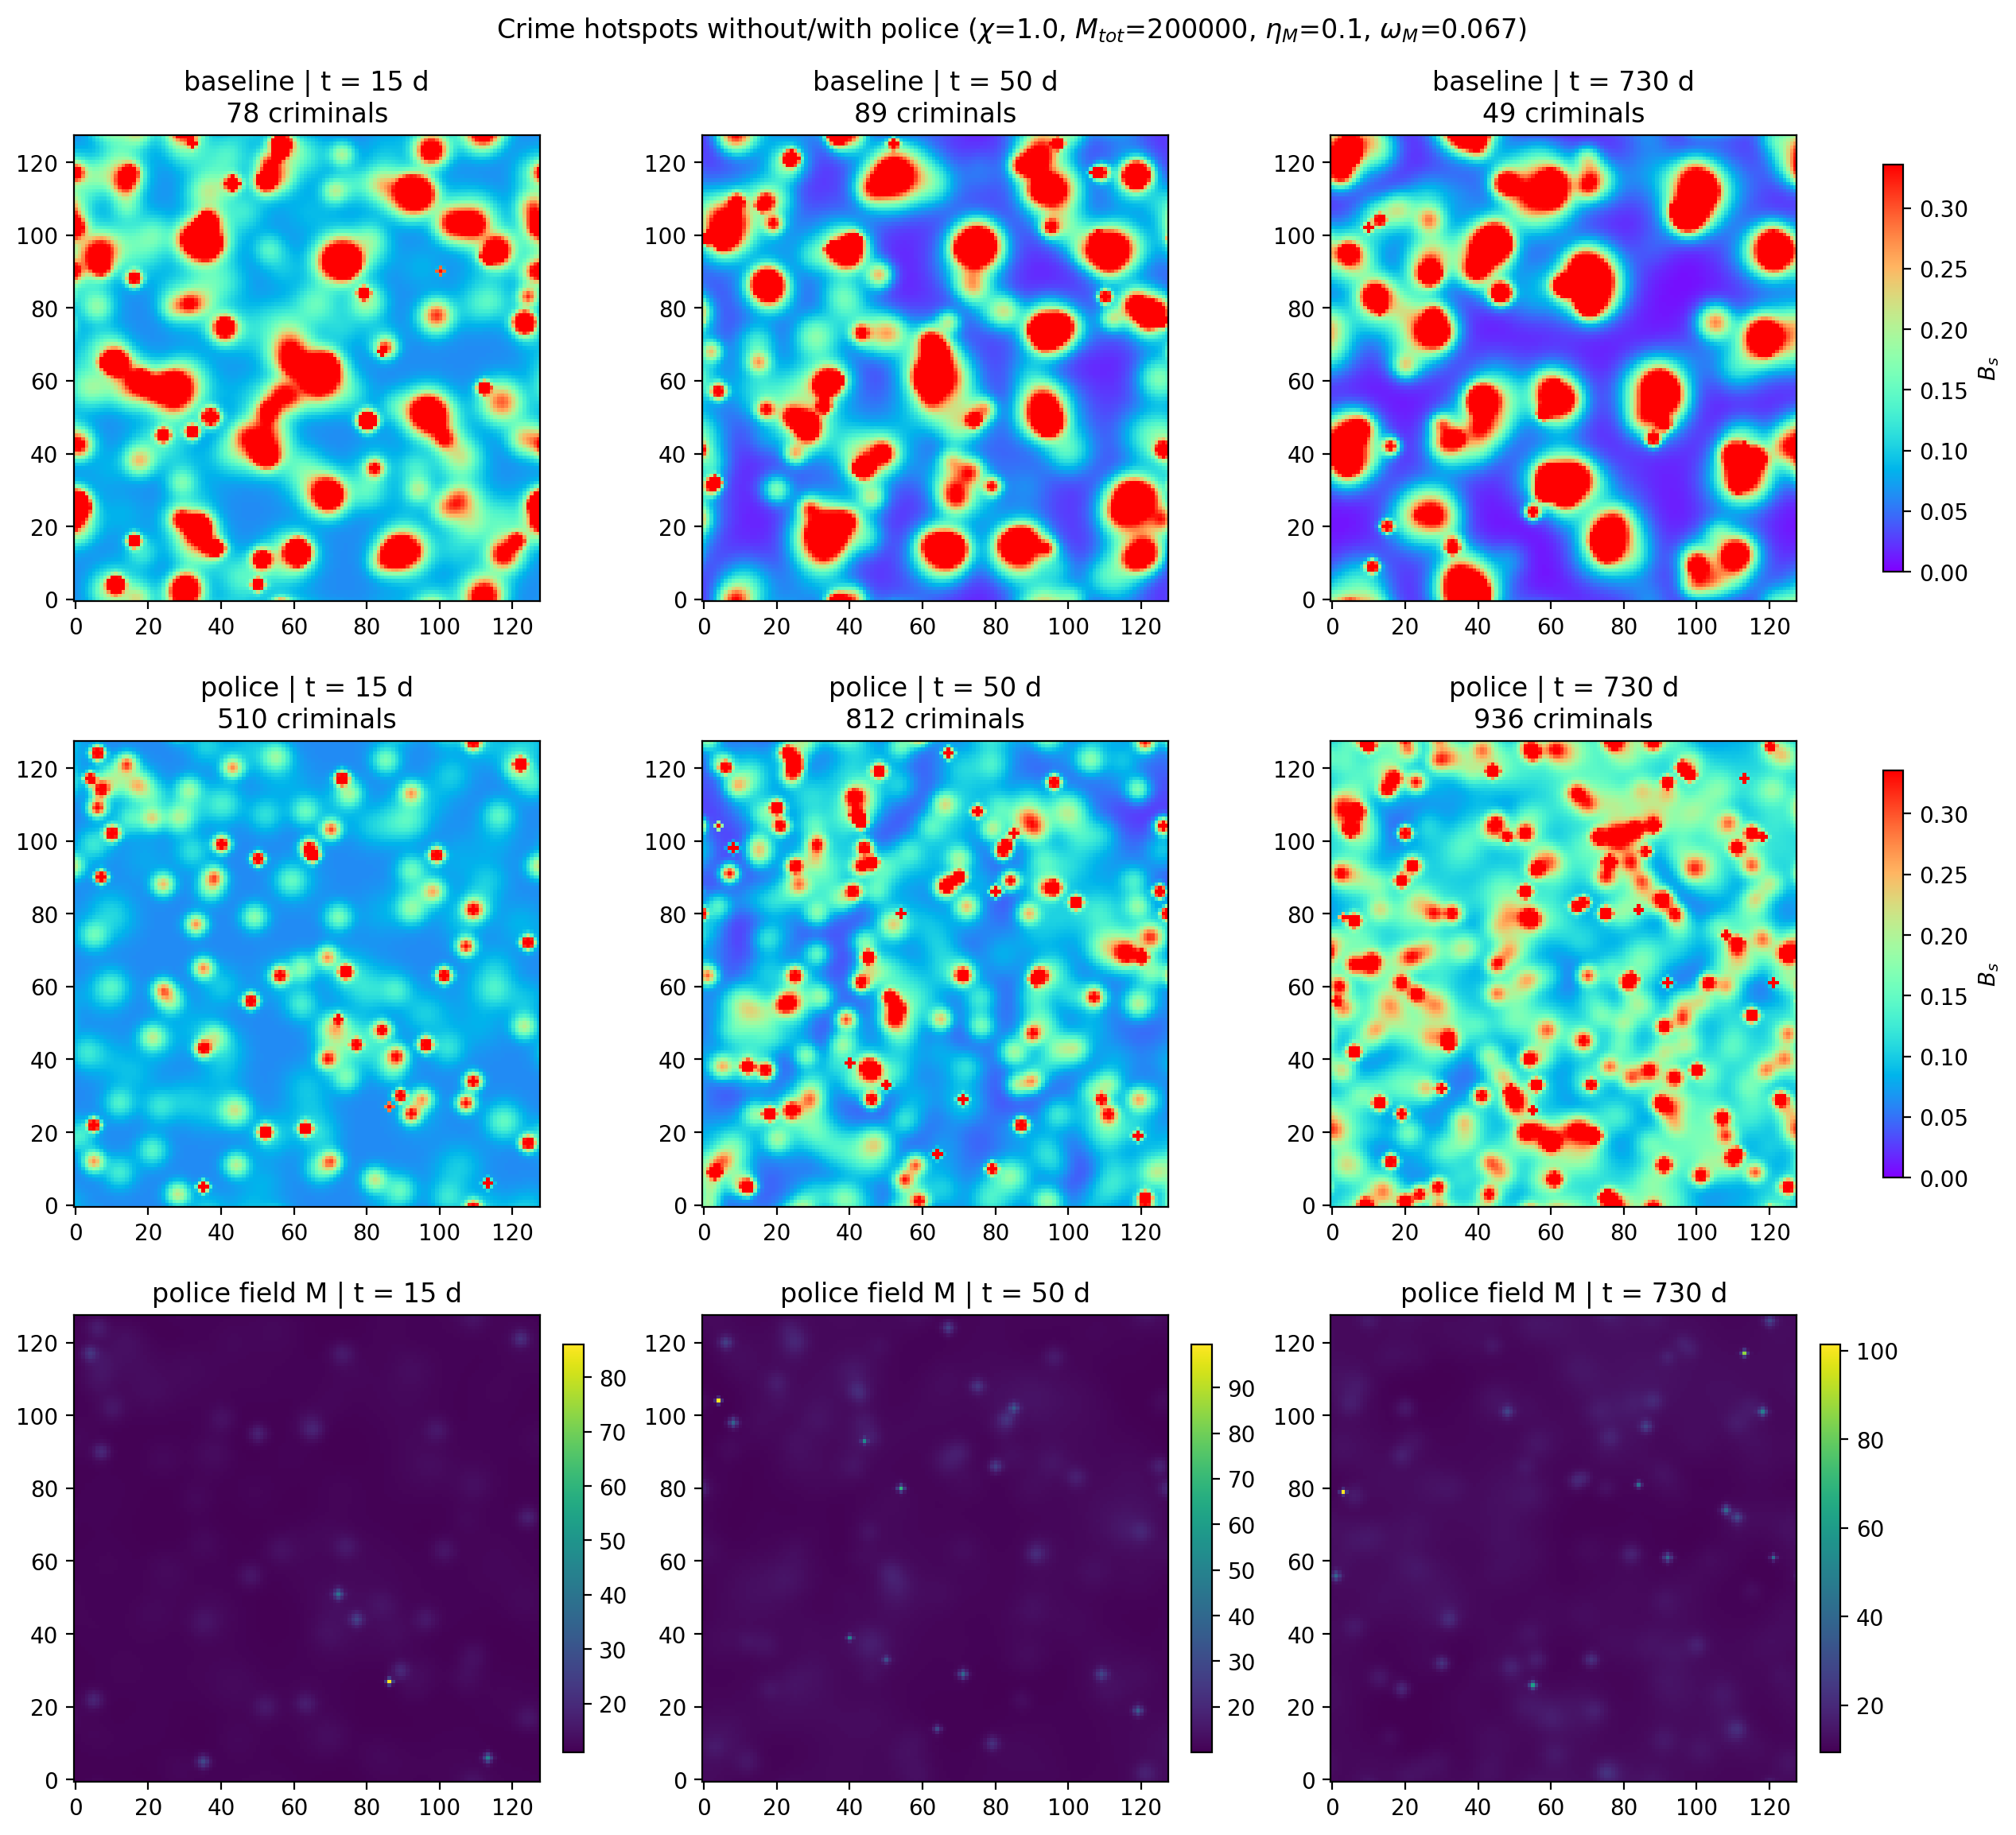
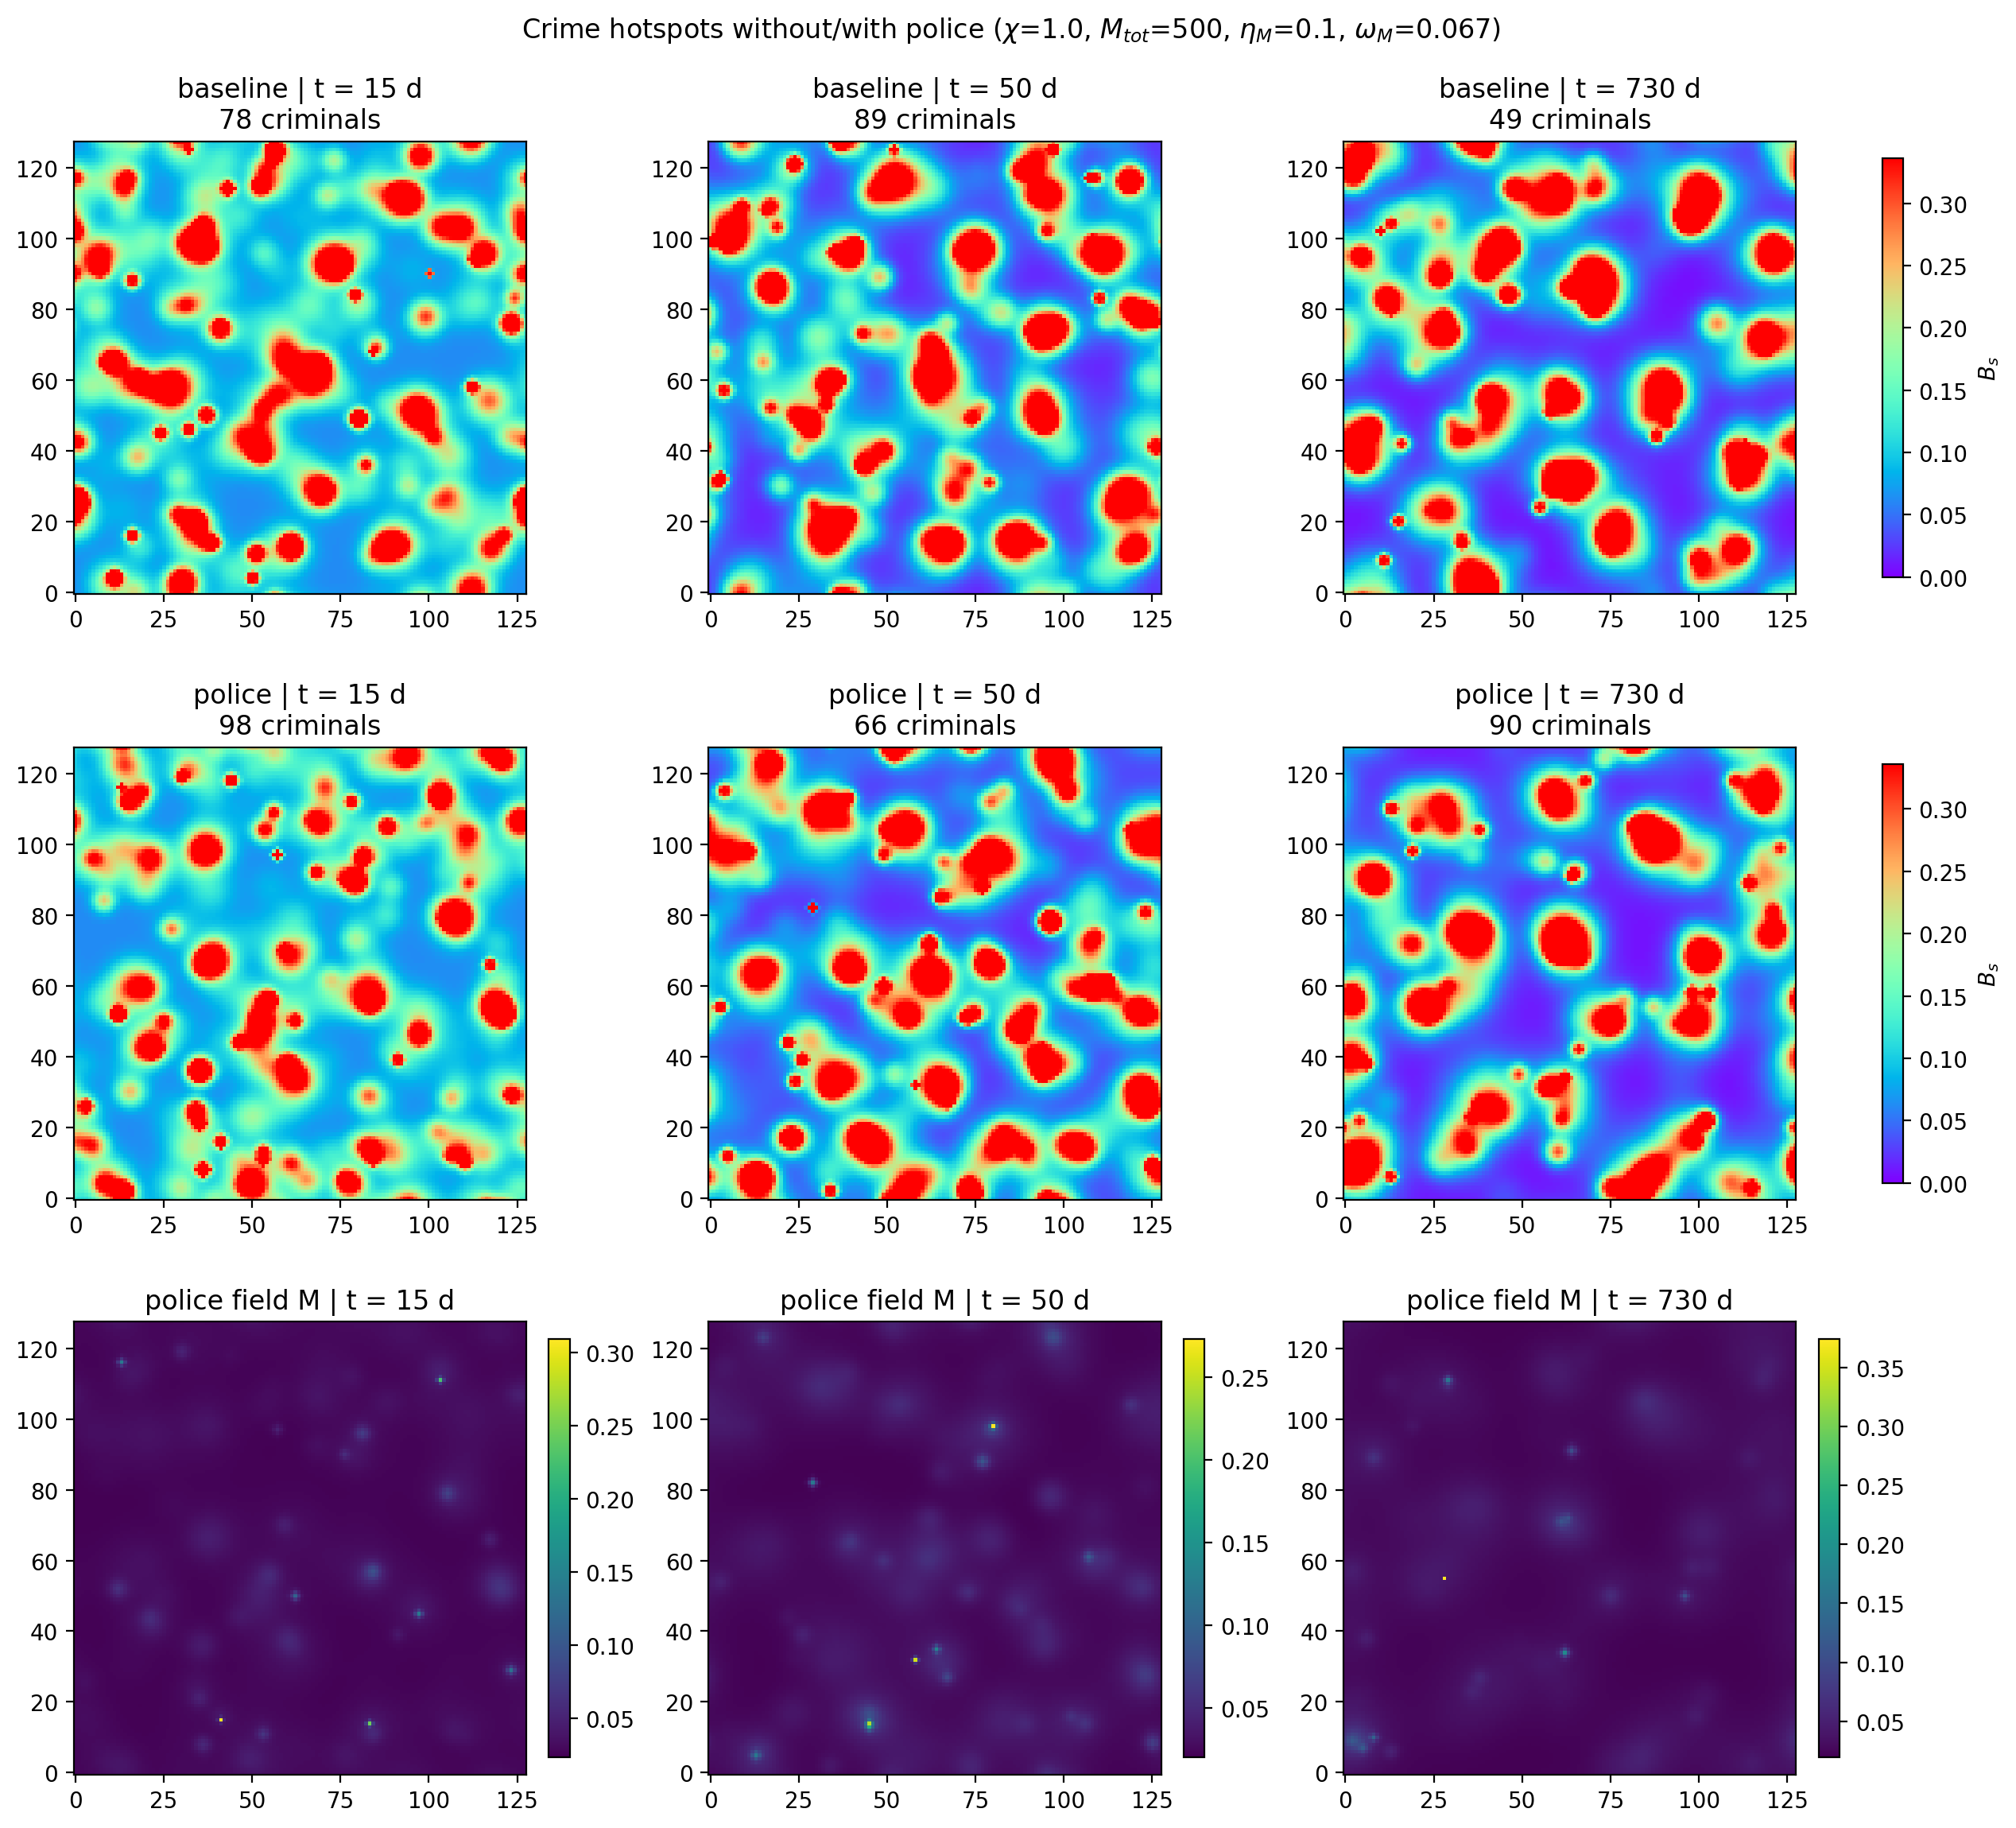
chi_sweep + .md

diff --git a/resumen_proyecto_policia.md b/resumen_proyecto_policia.md
@@ -1,0 +1,66 @@
+# Modelo de crimen con policía como campo conservado — resumen del proyecto
+
+*Resumen de la sesión de trabajo (junio 2026). Proyecto basado en la réplica de Short et al. (2008), Fig. 3(d), extendida con presencia policial.*
+
+## 1. Punto de partida
+
+Partimos del notebook que replica el modelo discreto de Short et al., *A Statistical Model of Criminal Behavior* (M3AS, 2008), en el régimen de hotspots dinámicos de la Fig. 3(d): red 128×128, δt=1/100, ω=1/15, A⁰=1/30, η=0.03, θ=5.6, Γ=0.002. El objetivo era añadir policía de forma sencilla, con espíritu Lotka-Volterra: B (atractividad dinámica) como presa y M (presencia policial) como predador.
+
+## 2. El modelo final
+
+Decisiones de diseño, en orden de discusión:
+
+1. **M es un campo escalar, no agentes.** Más barato (una operación vectorizada por paso), determinista dado E (la única estocasticidad queda en los criminales) y analizable (punto fijo homogéneo, estabilidad lineal). Análogo en espíritu al "cops on the dots" de Jones et al. (2010).
+2. **ΣM se conserva exactamente.** La policía no nace ni muere: se redistribuye. M_tot es el presupuesto policial.
+3. **M depende de B solo a través de E** (los crímenes observados). B es un campo latente que la policía no puede medir; E es lo que ve. Evitamos el término αBM del LV clásico.
+4. **B siente a M solo vía disuasión** ("perception modification" de Jones et al., Sec. 2.1.1), aplicada **solo a la componente dinámica**: el A⁰ intrínseco (riqueza, accesibilidad) no se puede patrullar. Implicación: la disuasión satura — la policía devuelve el crimen al nivel de fondo, nunca a cero.
+5. **La probabilidad de robo se mantiene como en Short** (p = 1−e^{−Ãδt}), no como en Jones (Ã/(1+Ã)): son casi idénticas numéricamente y así χ=0 reproduce la réplica base exactamente.
+
+Ecuaciones:
+
+$$\tilde A_s = A^0 + B_s\,e^{-\chi M_s}, \qquad p_s = 1-e^{-\tilde A_s \delta t}, \qquad q_{s\to s'} = \tilde A_{s'}/\textstyle\sum_r \tilde A_r$$
+
+$$B_s(t+\delta t) = \Big[(1-\eta)B_s + \tfrac{\eta}{z}\textstyle\sum_{s'}B_{s'}\Big](1-\omega\delta t) + \theta E_s \quad \text{(igual que Short)}$$
+
+$$M_s(t+\delta t) = (1-\omega_M\delta t)\Big[(1-\eta_M)M_s + \tfrac{\eta_M}{z}\textstyle\sum_{s'}M_{s'}\Big] + \omega_M\delta t\, M_{tot}\,\frac{E_s}{\sum_r E_r}$$
+
+Parámetros nuevos: χ (disuasión), η_M (patrulla difusiva), ω_M (tasa de redespliegue), M_tot. La conservación es exacta (difusión conserva masa en red periódica + combinación convexa). Nota de escalas: M y A tienen unidades distintas; solo importan los productos adimensionales χM (y κM si hay arrestos). El parámetro de control efectivo es χ·M_tot.
+
+**Verificación:** ΣM = M_tot en los 73.000 pasos; con χ=0 y la misma semilla, el campo B coincide bit a bit con la réplica de Fig. 3(d).
+
+## 3. Resultados
+
+**Run de referencia** (χ=1, M_tot=500, η_M=0.1, ω_M=1/15, 730 días): reducción modesta del crimen (252→229), hotspots persistentes. Diagnóstico: en los núcleos hace falta χM ≳ ln(B/A⁰) ≈ 3–5 y el χM real era ~0.04.
+
+**Asimetría viejos/nuevos hotspots.** La policía aborta hotspots nacientes pero no mata los consolidados: (i) la supresión es multiplicativa y los núcleos tienen B alto; (ii) la reasignación ∝E aterriza en la casilla del crimen justo durante la ventana crítica de consolidación (1/ω ≈ 15 días), bloqueando la victimización repetida de los nuevos; (iii) en un hotspot maduro, M ~ constante sobre el núcleo se cancela en el cociente del sesgo de movimiento y no expulsa a los criminales ya atrapados; el hotspot se desplaza en vez de morir. Esto reproduce el resultado supresión-vs-desplazamiento de Short et al. (PNAS 2010) — es un resultado, no un bug.
+
+**Artefacto de conservación del crimen.** Con policía muy fuerte (M_tot=200.000) la población criminal explota (~936) y el crimen se difumina sin reducirse: en el modelo de Short un criminal solo sale del sistema robando, así que el crimen estacionario está fijado por la entrada Γ·L² y la disuasión solo lo retrasa y lo esparce. Solución pendiente: canal de salida sin robo — el δ de Jones ("return home") o, mejor, arresto dependiente de policía, p_rem = 1−e^{−κMδt}, que además permite que la policía drene hotspots maduros.
+
+**Barrido en χ** (χ ∈ {0,1,3,10,30,100,300}, M_tot=500, 3 semillas, 365 días, promedio sobre t∈[185,365]):
+
+| χ | std(B)/⟨B⟩ | criminales |
+|------|------|------|
+| 0 | 1.56 | 69 |
+| 1 | 1.55 | 74 |
+| 3 | 1.49 | 81 |
+| 10 | 1.39 | 117 |
+| 30 | 1.05 | 275 |
+| 100 | 0.83 | 807 |
+| 300 | 0.83 | 977 |
+
+Dos fases con zona de transición en **χ_c ≈ 20–50, es decir χ·M̄ ≈ 1** (M̄ = M_tot/L²): fase de hotspots (plateau ~1.56) y fase difusa (plateau ~0.83). La fracción de área de hotspots colapsa de 0.125 a 0.045 entre χ=10 y 100. **Sin histéresis** (ramas con inicio homogéneo y con hotspots preformados coinciden) → transición continua/supercrítica, consistente con que 3(d) está en régimen supercrítico. El proxy de susceptibilidad no muestra pico → apunta a crossover; test decisivo pendiente: comparar L=64 vs 128 (una transición real se afila con L).
+
+## 4. Pendiente / siguientes pasos
+
+- Añadir el canal de arresto κ y comparar mecanismos: solo-disuasión vs solo-arresto vs ambos. Con κ el crimen total vuelve a ser un parámetro de orden válido.
+- Test de tamaño finito (L=64 vs 128) para distinguir transición de crossover.
+- Predicción analítica de χ_c: con M uniforme la disuasión es un reescalado B→Be^{−χM̄} en el análisis de estabilidad lineal del modelo continuo (Eqs. 82–83 de la review de Jusup et al.).
+- Email a Jones/Brantingham/Chayes (borrador listo: `email_to_jones_et_al.md`); considerar copiar a Martin Short (Georgia Tech).
+
+## 5. Referencias
+
+Short et al., M3AS 18 (2008) — modelo base. Jones, Brantingham & Chayes, M3AS 20 (2010) 1397–1423 — policía como agentes, disuasión. Short, Brantingham, Bertozzi & Tita, PNAS 107 (2010) 3961–3965 — supresión vs desplazamiento. Pitcher, Eur. J. Appl. Math. 21 (2010) — policía en PDE. Zipkin, Short & Bertozzi, DCDS-B 19 (2014) — cops on the dots. Jusup et al., Phys. Rep. 948 (2022), Sec. 8.2 — review.
+
+## 6. Archivos
+
+`crime_model_police_extension.ipynb` (réplica + secciones 8 policía y 9 barrido/histéresis, con GIFs), `figures_police/` (mapas comparativos, series temporales, barrido, histéresis, GIFs χ=0 y χ=30), `chi_sweep.csv` y `chi_hysteresis.csv` (datos del barrido), `email_to_jones_et_al.md`.